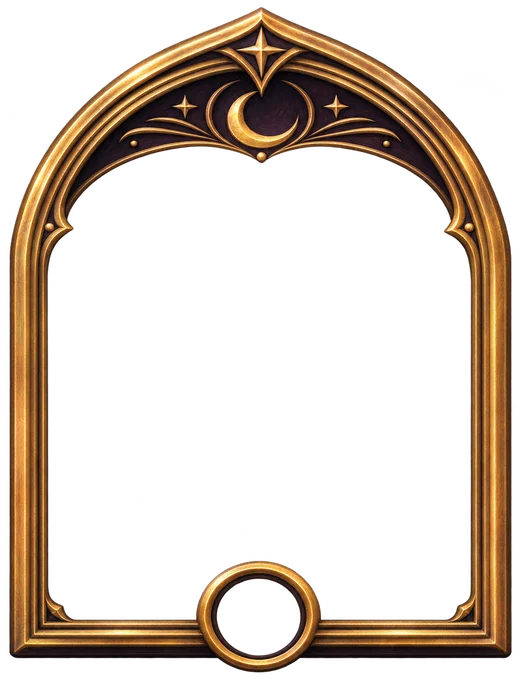
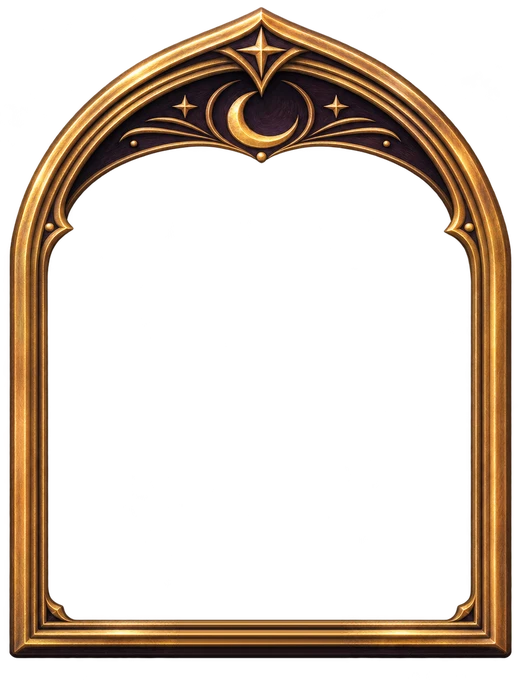
Witchcraft: other-profile photo fills the arch window exactly (clipped to the frame's own mask); ring removed from the arch frame

Changed region(s): [[0.3385, 0.8029, 0.6462, 0.9882]]

diff --git a/css/fullskins.css b/css/fullskins.css
@@ -2910,3 +2910,10 @@ html body.fs.fs-witchcraft #editProfileForm input[type="radio"] { position: stat
 html body.fs.fs-witchcraft #editProfileForm label:has(> input[type="radio"]) { position: static !important; display: inline-flex !important; align-items: center; gap: 8px !important; color: #efe2c8 !important; }
 html body.fs.fs-witchcraft .status-emoji-btn { border-radius: 10px !important; }
 html body.fs.fs-witchcraft .status-emoji-btn.active { box-shadow: 0 0 0 2px #c94cff !important; border-color: transparent !important; }
+/* other profile photo (owner): fill the arch window exactly, never over the gold — clip with the frame's own window mask
+   (art window 9.2/21.6/9.6/9.0%, mask grown 6px; mask scaled to the full art relative to the window-sized photo) */
+@media (max-width: 768px) {
+  html body.fs.fs-witchcraft .pv-profile-card:not(#_) .profile-avatar-wrap .profile-avatar {
+    left: 9.2% !important; top: 21.6% !important; width: 81.2% !important; height: 69.4% !important; border-radius: 0 !important; object-fit: cover !important; box-shadow: none !important;
+    -webkit-mask: var(--fs-avatar-arch-mask) 48.8% 70.6% / 123.2% 144.1% no-repeat !important; mask: var(--fs-avatar-arch-mask) 48.8% 70.6% / 123.2% 144.1% no-repeat !important; }
+}
